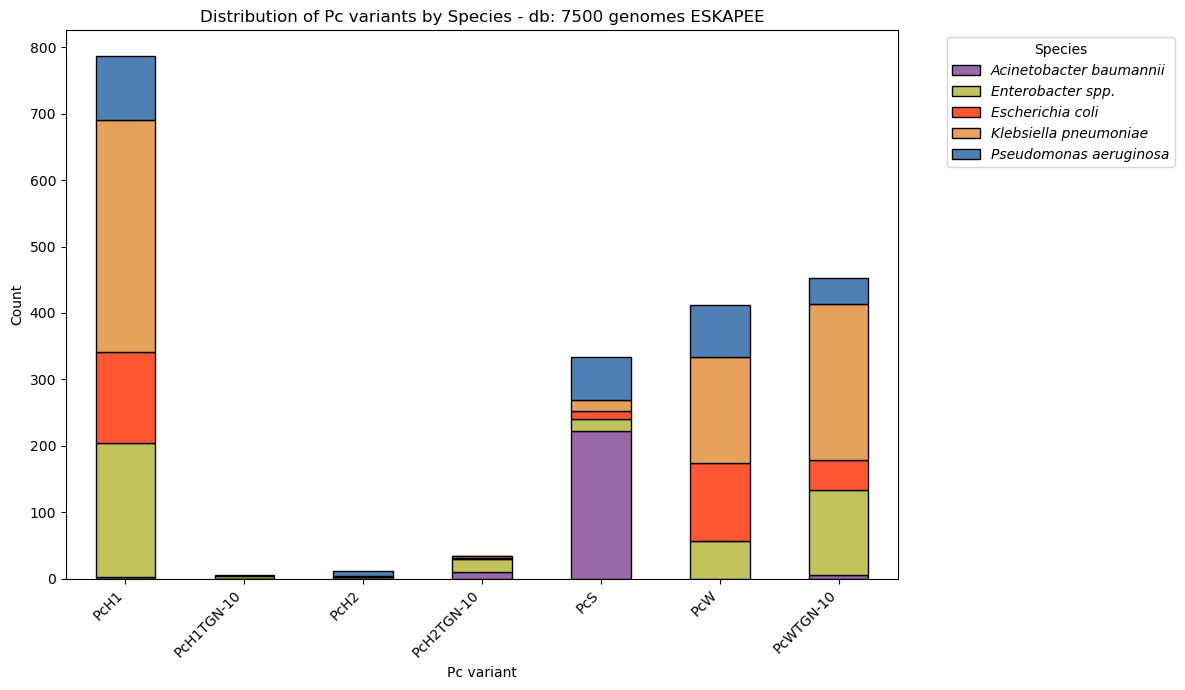
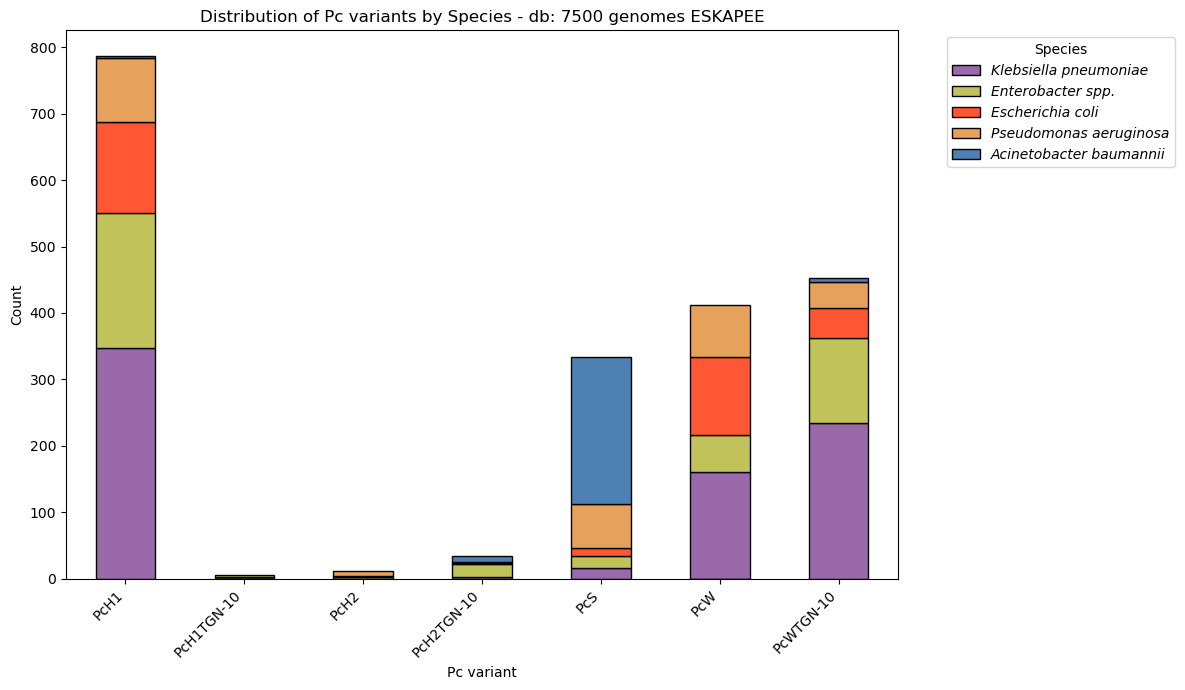
changing the order of stacked bars in final plot (more abundant down)

diff --git a/scripts/plot/plotting.py b/scripts/plot/plotting.py
@@ -310,7 +310,11 @@ def plot_pc_by_species(csv_path,
     # Colors to plot
     colors = ["#9969AA", "#C2C25A", "#FF5733", "#E6A15C", 
               "#4F80B3", "#FFE600", "#C57AB5", "#96FFE5"]
-    
+
+        # Order the Pc by total abundance
+    order = count_table.sum().sort_values(ascending=False).index
+    count_table = count_table.loc[:, order]
+
     # Stacked bars (one color per species)
     count_table.plot(kind = "bar", stacked = True, ax = ax,
                      color = colors[:len(count_table.columns)], 
